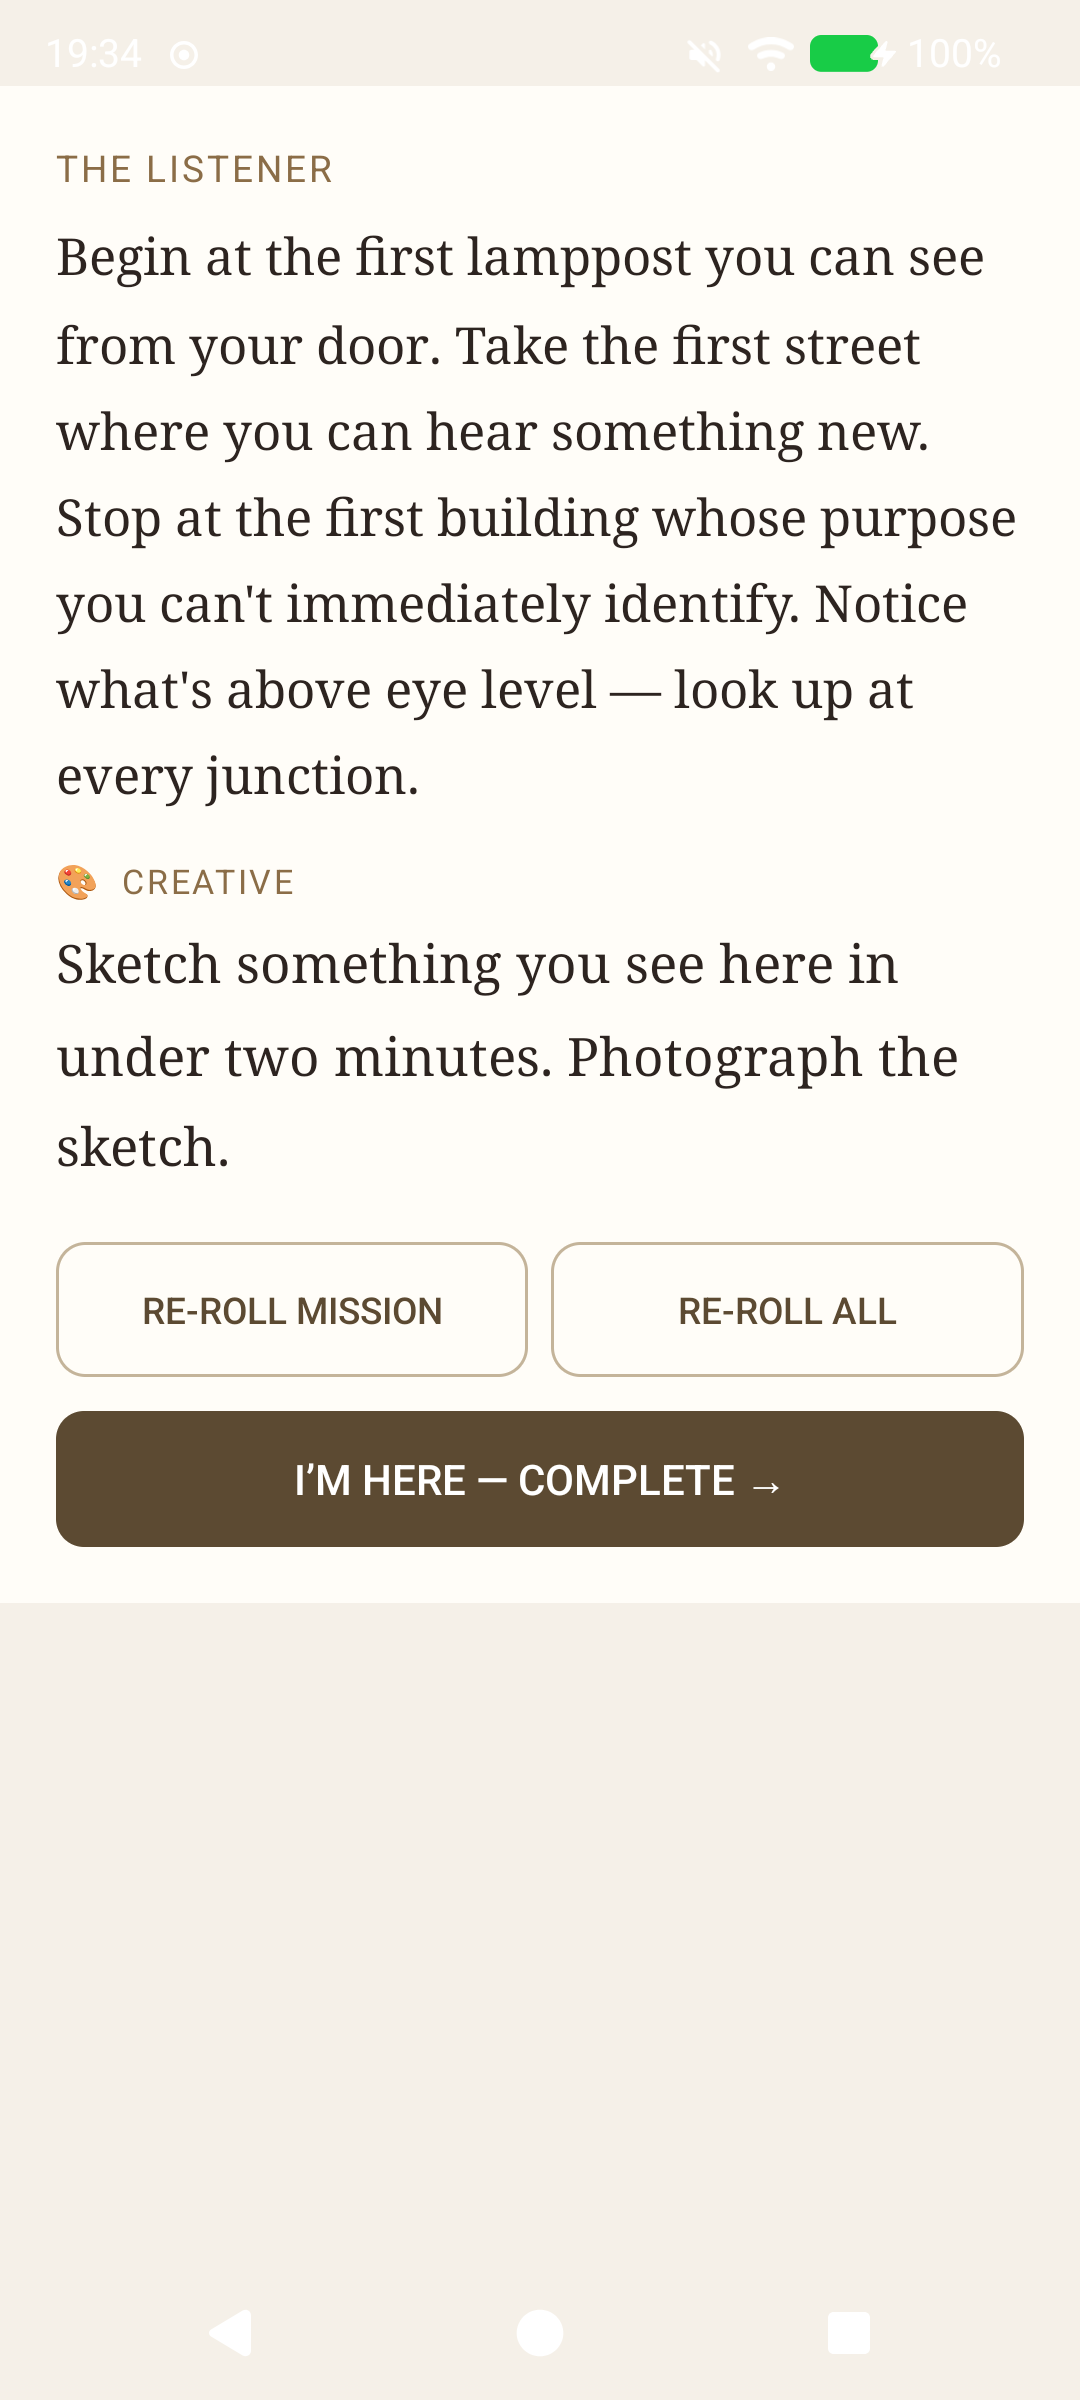
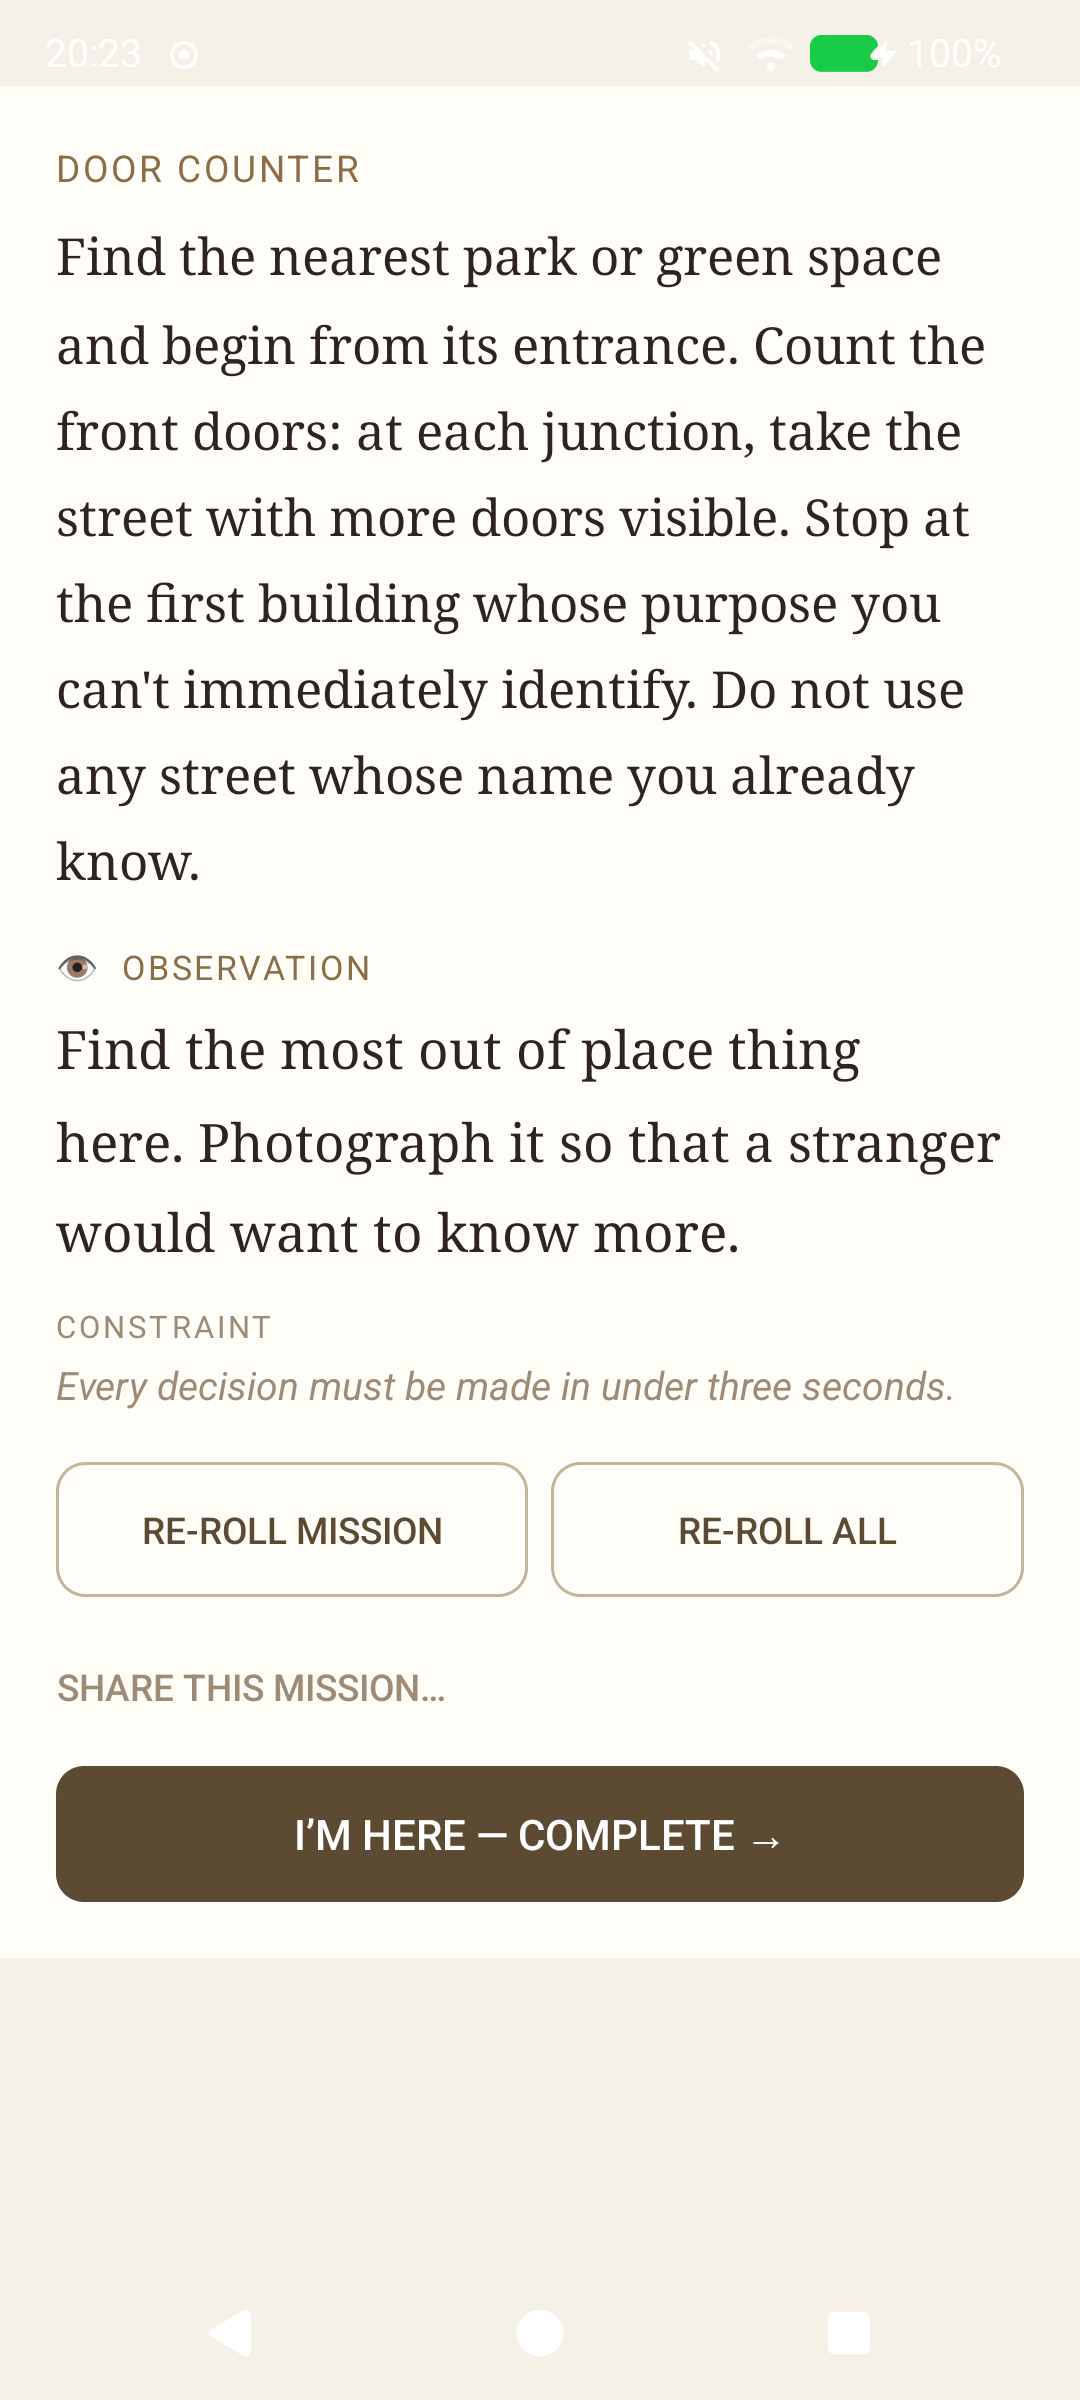
docs: update screenshot and README to reflect new features

diff --git a/README.md b/README.md
@@ -16,12 +16,12 @@ A creative micro-adventure generator for Android. Tap a button, get sent somewhe
 
 ## What it does
 
-1. **Weander** — tap the button, get a random nearby destination (500m–2km) paired with a random creative mission
-2. **Go** — walk there following the OSMDroid map; re-roll the mission if it doesn't spark anything
+1. **Weander** — tap the button. Either a random nearby destination (500m–2km) is picked using GPS, or — when GPS is unavailable or 30% of the time regardless — a procedurally generated walking strategy (a rule for how to navigate, a condition for when to stop)
+2. **Go** — follow the OSMDroid map to your destination, with a live position dot; re-roll the mission if it doesn't spark anything
 3. **Complete** — document with a photo, text, or audio recording
-4. **Journal** — browse your past adventures in a chronological feed
+4. **Journal** — browse past adventures in a chronological feed, filter by category, or view all destinations on a map
 
-Missions span six categories: Photo, Writing, Sound, Social, Creative, Observation. 72 missions total, weighted and composable.
+Missions span six categories: Photo, Writing, Sound, Social, Creative, Observation. Over 90 hand-crafted missions, plus composable variants generated from component parts. Missions are weighted by time of day and season. A random creative constraint (35% chance) adds an extra layer of friction. Return missions activate when you revisit an area you have explored before.
 
 ---
 
@@ -66,11 +66,13 @@ app/src/main/java/it/lo/exp/weander/
   data/local/          # Room DB, DAO
   data/model/          # Adventure entity
   data/repository/
-  missions/            # Mission, MissionCategory, MissionPool (72 missions)
-  ui/home/             # HomeActivity — the "Weander" button
-  ui/adventure/        # AdventureActivity — map + mission card
+  missions/            # Mission, MissionPool, ConstraintPool, ReturnMissionPool
+                       # NavigationStrategy, NavigationStrategyPool
+  ui/home/             # HomeActivity — the "Weander" button + streak stats
+  ui/adventure/        # AdventureActivity — map, live position, mission card
   ui/complete/         # CompleteActivity — camera / gallery / audio / text
-  ui/journal/          # JournalActivity, AdventureDetailActivity
+  ui/journal/          # JournalActivity (filter chips, map button)
+                       # AdventureDetailActivity, MapOverviewActivity
   util/                # Haversine, random nearby point, walk time
 ```
 
@@ -78,7 +80,7 @@ app/src/main/java/it/lo/exp/weander/
 
 ## Permissions
 
-`ACCESS_FINE_LOCATION`, `CAMERA`, `RECORD_AUDIO`, `READ/WRITE_EXTERNAL_STORAGE`
+`ACCESS_FINE_LOCATION`, `CAMERA`, `RECORD_AUDIO`, `VIBRATE`, `WRITE_EXTERNAL_STORAGE` (API ≤ 28 only, for OSMDroid tile cache)
 
 All requested at runtime; the app degrades gracefully if any are denied.
 
